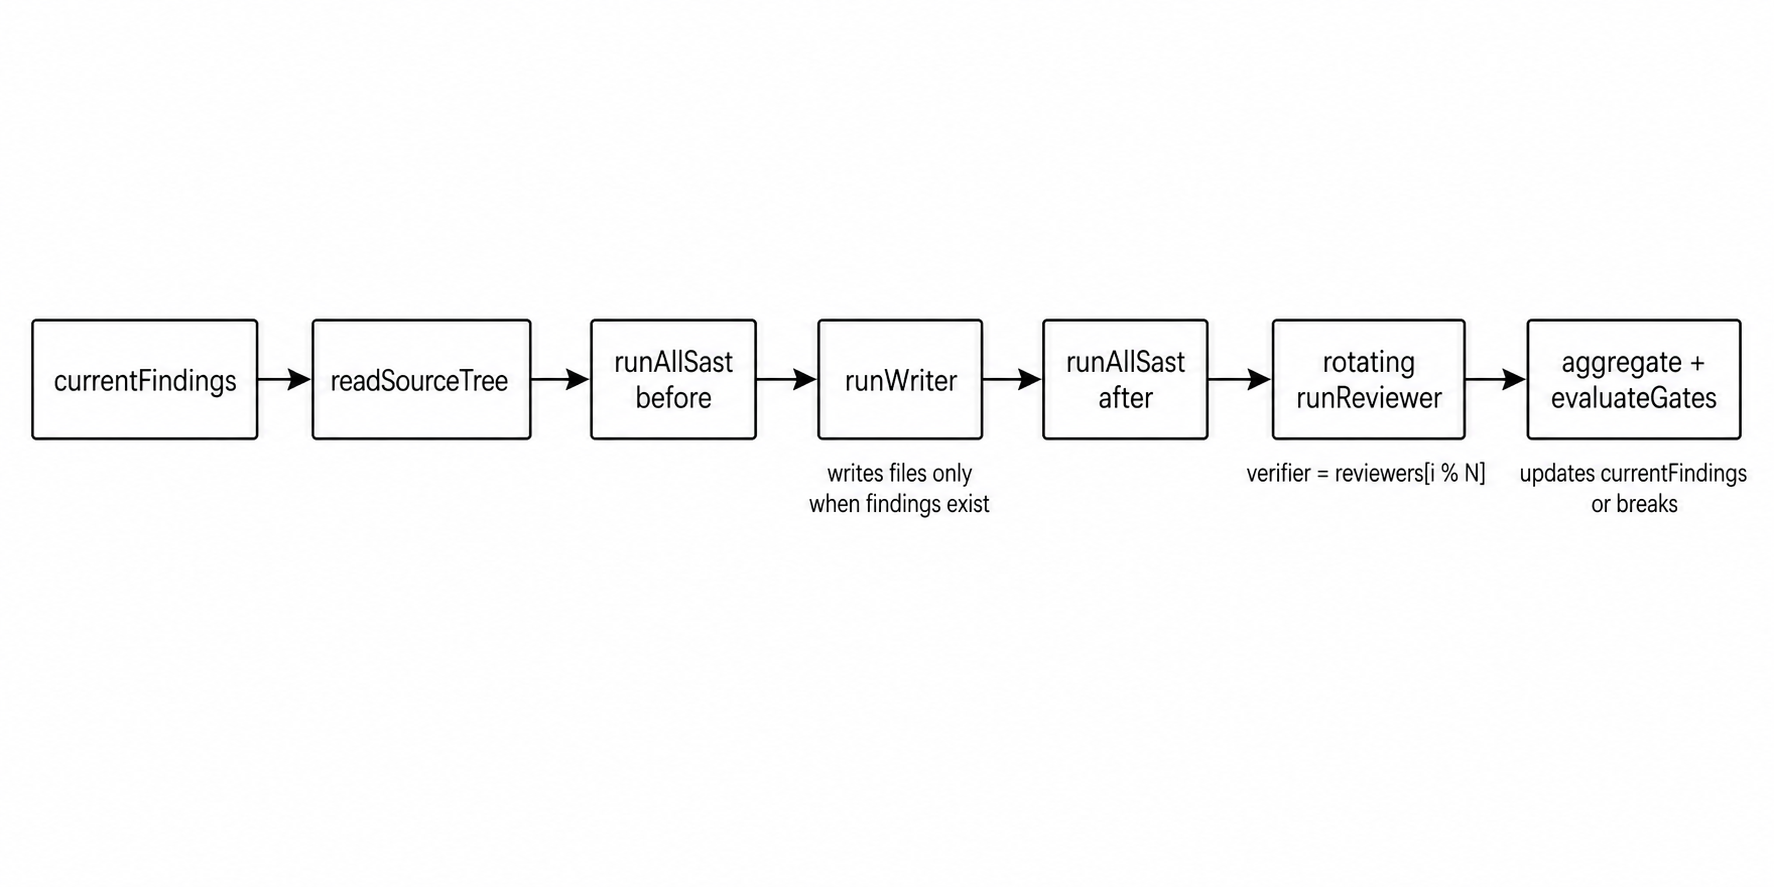
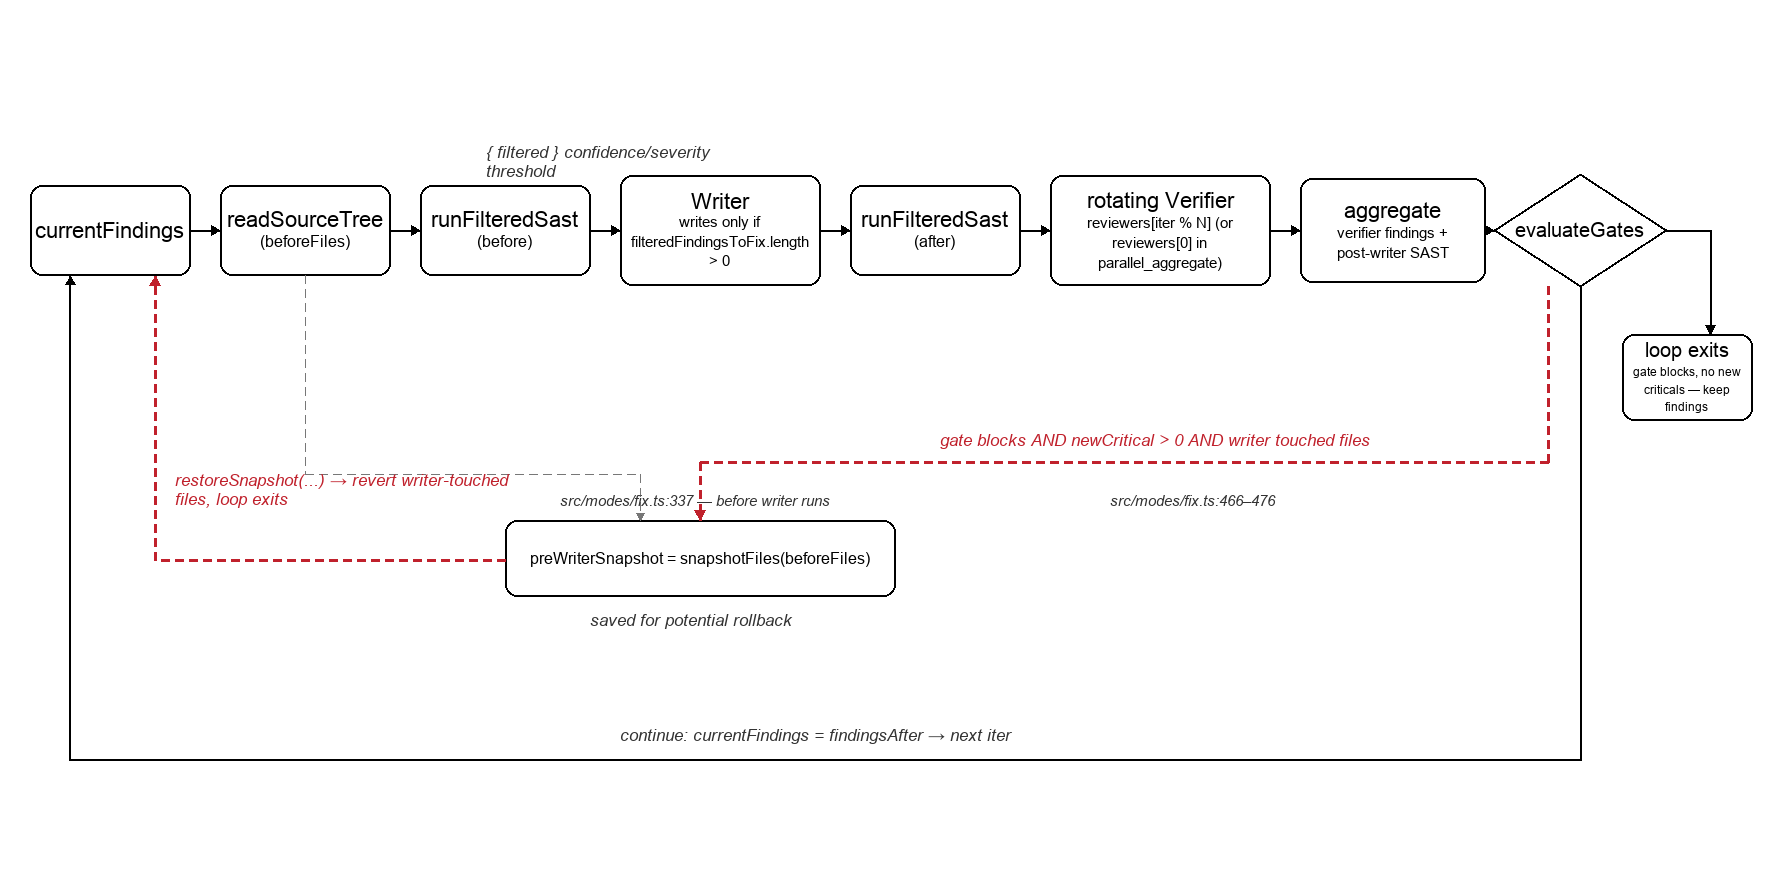
docs+cli: correct 6 inaccurate diagrams + warn on .env/shell conflict
Two papercuts from a manual dogfooding session (2026-05-12):

src/cli.ts — warn on .env vs shell environment variable conflict
  process.loadEnvFile silently keeps shell values when they differ from
  the local .env file. Parse .env manually before loading, compare each
  key against process.env, and print a stderr warning listing every
  conflicting key (with masked values) plus the exact 'unset' command
  needed to make .env values win. Preserves Node's convention (shell
  takes precedence) but surfaces the conflict explicitly so users
  understand why their .env edits seem to have no effect.

docs/images — regenerate 6 of 7 flow diagrams (one was already accurate)
  An audit run by 12 parallel validators (each diagram cross-checked by
  two independent agents reading src/ directly) found structural
  inaccuracies in nearly every diagram:

  - review-mode.png and initial-union-scan.png: visual implied SAST and
    readers fire in parallel from the source tree. Actual code awaits
    SAST first (src/modes/review.ts:54, src/modes/fix.ts:243), then
    passes its findings as priorFindings input to the parallel readers.

  - fix-mode-loop.png: omitted the rollback path (fix.ts:466-476), the
    divergence exit (fix.ts:432-436), the iteration ceiling
    (fix.ts:330), and 3 of 4 gate evaluation sites
    (initial-scan / pre-final / post-final).

  - fix-iteration.png: missing preWriterSnapshot capture (fix.ts:337)
    and the rollback branch that uses it (fix.ts:466-476).
[…]

diff --git a/src/cli.ts b/src/cli.ts
@@ -1,6 +1,6 @@
 #!/usr/bin/env node
 import { readFile } from 'node:fs/promises';
-import { existsSync, realpathSync } from 'node:fs';
+import { existsSync, readFileSync, realpathSync } from 'node:fs';
 import { execFile } from 'node:child_process';
 import { dirname, resolve } from 'node:path';
 import { promisify } from 'node:util';
@@ -11,12 +11,72 @@ import { createInterface } from 'node:readline/promises';
 // 'set -a; source .env; set +a' before every invocation.
 // process.loadEnvFile is a built-in Node 20.12+ API — no extra dependency.
 // Security: .env files should be restricted to mode 600 and listed in .gitignore.
+//
+// Behavior: loadEnvFile does NOT override existing process.env entries (Node
+// convention, matches dotenv/python-dotenv defaults). When the shell already
+// exports a key that .env also defines, the shell value silently wins. That
+// has been a confusing failure mode in practice ("I edited .env, why is the
+// tool still using the old key?"). Detect the conflict up front and warn.
 if (existsSync('.env')) {
+  warnEnvConflicts('.env');
   try {
     process.loadEnvFile('.env');
   } catch {
     // older Node, or malformed .env — fall back silently
   }
+}
+
+function parseEnvFile(path: string): Map<string, string> {
+  const vars = new Map<string, string>();
+  let content: string;
+  try {
+    content = readFileSync(path, 'utf8');
+  } catch {
+    return vars;
+  }
+  for (const rawLine of content.split('\n')) {
+    const line = rawLine.trim();
+    if (!line || line.startsWith('#')) continue;
+    const eq = line.indexOf('=');
+    if (eq <= 0) continue;
+    const key = line.slice(0, eq).trim();
+    let val = line.slice(eq + 1).trim();
+    if (
+      (val.startsWith('"') && val.endsWith('"')) ||
+      (val.startsWith("'") && val.endsWith("'"))
+    ) {
+      val = val.slice(1, -1);
+    }
+    vars.set(key, val);
+  }
+  return vars;
+}
+
+function maskSecret(v: string): string {
+  if (v.length <= 8) return '****';
+  return `${v.slice(0, 4)}…${v.slice(-4)}`;
+}
+
+function warnEnvConflicts(envFilePath: string): void {
+  const fileVars = parseEnvFile(envFilePath);
+  const conflicts: Array<{ key: string; fileValue: string; shellValue: string }> = [];
+  for (const [key, fileValue] of fileVars) {
+    const shellValue = process.env[key];
+    if (shellValue !== undefined && shellValue !== fileValue) {
+      conflicts.push({ key, fileValue, shellValue });
+    }
+  }
+  if (conflicts.length === 0) return;
+  const out = process.stderr;
+  out.write('\n⚠ .env vs shell environment conflict — shell value is being used:\n');
+  for (const c of conflicts) {
+    out.write(`   ${c.key}:\n`);
+    out.write(`     .env:   ${maskSecret(c.fileValue)}   (ignored)\n`);
+    out.write(`     shell:  ${maskSecret(c.shellValue)}   (used — Node convention)\n`);
+  }
+  out.write(
+    `   To use .env values instead, run:  unset ${conflicts.map((c) => c.key).join(' ')}\n\n`,
+  );
 }
 import { Command, InvalidArgumentError } from 'commander';
 import { z } from 'zod';
